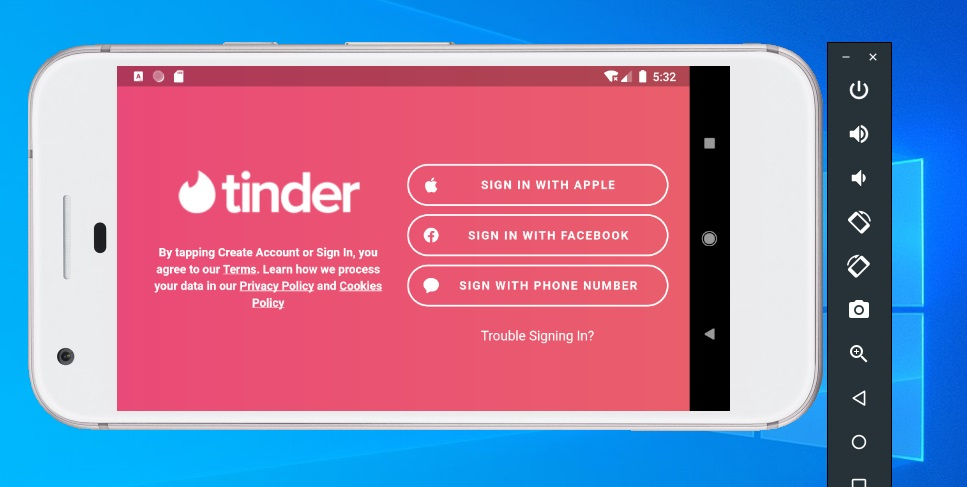
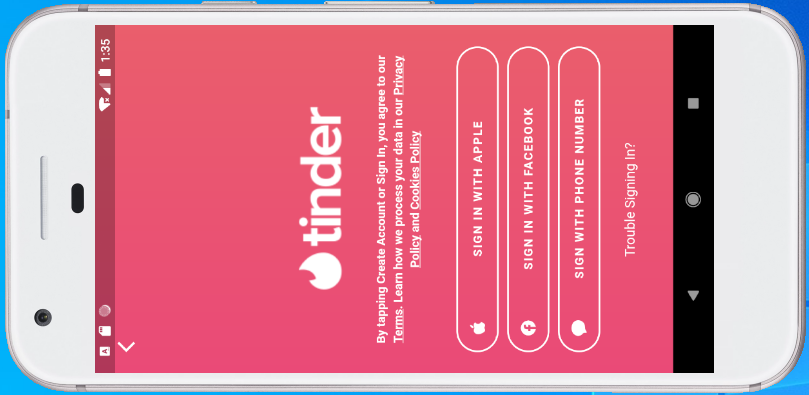
Atualizando os print screens do Mockups do Tinder

diff --git a/lib/src/pages/mockup_tinder_page.dart b/lib/src/pages/mockup_tinder_page.dart
@@ -92,7 +92,6 @@ class TopoTelaLogin extends StatelessWidget {
                 height: 100,
               ),
             ),
-            (isPortrait) ? Spacer() : SizedBox(),
             Container(
               margin: EdgeInsets.all(10),
               height: 90,
@@ -103,7 +102,7 @@ class TopoTelaLogin extends StatelessWidget {
                       'By tapping Create Account or Sign In, you agree to our ',
                   style: TextStyle(
                       fontWeight: FontWeight.w800,
-                      fontSize: 15,
+                      fontSize: 14,
                       height: 1.4,
                       fontFamily: 'Montserrat, sans-serif',
                       color: Color(cor_tinder_texto)),
@@ -150,7 +149,7 @@ class BottomTelaLogin extends StatelessWidget {
   @override
   Widget build(BuildContext context) {
     return Expanded(
-      flex: 1,
+      flex: (isPortrait) ? 0 : 1,
       child: Column(
         mainAxisAlignment: MainAxisAlignment.end,
         crossAxisAlignment: CrossAxisAlignment.center,
